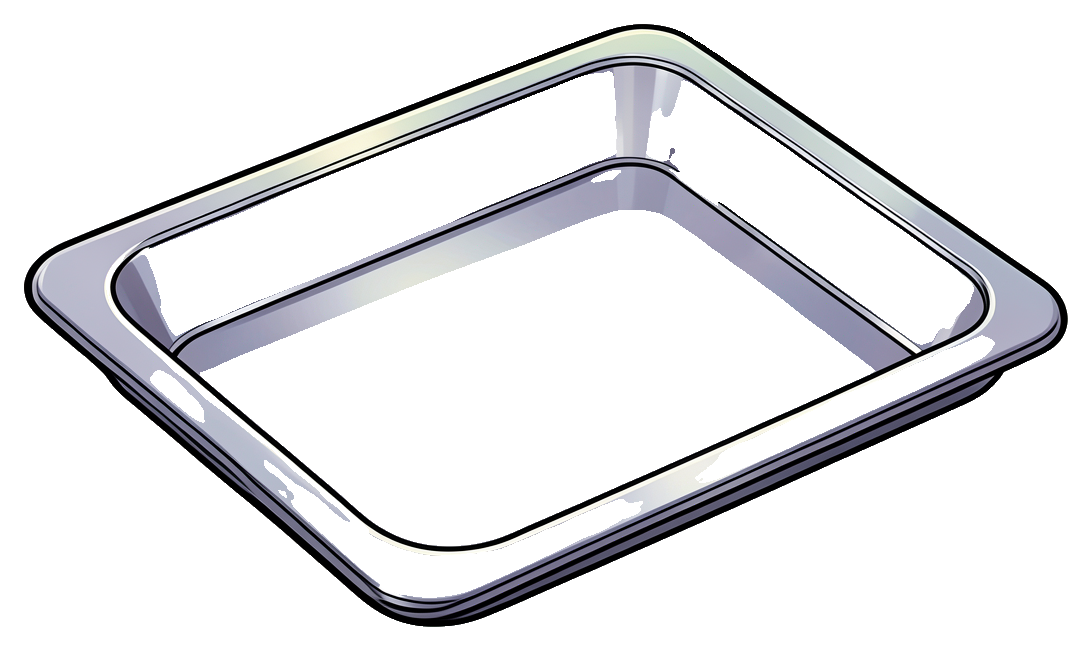
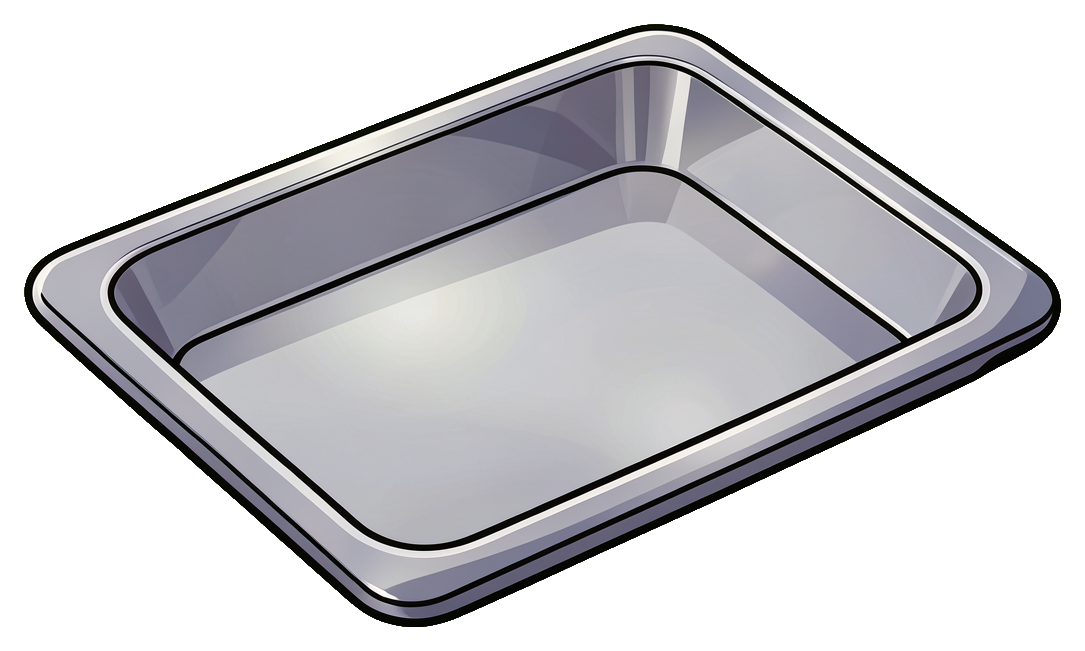
Fix transparency holes in grill/ketchup/tray; commercial grill redesign
- assetgen: grill, ketchup_bottle, prep_tray render on green + chroma-key
  cutout now (rembg on white ate their near-white centers: steel top,
  label band, tray bottom/inner walls)
- grill redesigned as a commercial galley range: symmetric 2x2 diamond
  of square cast-iron grates + control knobs (was random round rings)
- cook2.html: pan slots re-seated on the new grates; food-in-pan pose
  (0.5909 scale, -10/-4.5 offset) applied idempotently in Item.refresh
  so it survives raw->cooking->cooked->burnt sprite recreations
- also in tree: bun/cheese keeper refreshes + plate-stack posing

diff --git a/cook2.html b/cook2.html
@@ -80,6 +80,9 @@ button:active{transform:translateY(2px);box-shadow:0 1px 0 rgba(0,0,0,.15)}
 #story input[type=range]{flex:1}
 #story input[type=number]{width:56px;background:#0e1620;color:#fff;border:1px solid #2f4a68;border-radius:6px;padding:3px 5px}
 #story .kv{font-family:ui-monospace,monospace;font-size:11.5px;color:#8fd3ff;white-space:pre-wrap}
+#story header .hbtns{display:flex;gap:6px}
+#story header button.on{background:#3a86ff;color:#fff}
+#storyRestore{position:fixed;left:calc(10px + env(safe-area-inset-left,0px));bottom:calc(10px + env(safe-area-inset-bottom,0px));z-index:30;background:#1d2436;color:#cfe3ff;border:1px solid #3a4a75;border-radius:10px;padding:6px 12px;font-size:13px;font-weight:600;cursor:pointer}
 /* ---------- debug harness (?debug) ---------- */
 #dbgToggle{position:fixed;right:calc(10px + env(safe-area-inset-right,0px));bottom:calc(10px + env(safe-area-inset-bottom,0px));z-index:30;background:#1d2436;color:#cfe3ff;border:1px solid #3a4a75;border-radius:10px;padding:6px 12px;font-size:13px;font-weight:600;cursor:pointer}
 #dbgPanel{position:fixed;right:10px;bottom:48px;z-index:30;background:#1d2436ee;color:#cfe3ff;border:1px solid #3a4a75;border-radius:14px;padding:12px 14px;font-size:13px;width:270px;display:none}
@@ -124,7 +127,7 @@ body.ed-move #game canvas{cursor:move}body.ed-scale #game canvas{cursor:nwse-res
 </div>
 
 <div id="story" class="hidden">
-  <header><span>📖 Storybook</span><button id="storyClose">✕ close</button></header>
+  <header><span>📖 Storybook</span><span class="hbtns"><button id="labelToggle" class="on" title="Toggle labels">Aa</button><button id="storyHide" title="Hide sidebar">⟨</button></span></header>
   <nav id="storyNav"></nav>
   <div class="body" id="storyBody"></div>
 </div>
@@ -136,7 +139,7 @@ body.ed-move #game canvas{cursor:move}body.ed-scale #game canvas{cursor:nwse-res
     <div class="row"><div class="stat" id="menuLevel">Level 1</div><div class="stat" id="menuCoins">🪙 0</div></div>
     <div class="starsBig" id="menuStars"><span>★</span><span>★</span><span>★</span></div>
     <div class="howto">🍔 Tap the patty tray, then a pan — or drag. Cooked patty → plate with a bun.<br>🥤 Tap the soda machine to pour. 🍟 Tap the fryer.<br>🙂 Drag finished dishes to the customer who ordered them. 🪙 Tap tips to collect.</div>
-    <div class="row"><button class="big" id="playBtn">Play</button><button class="ghost" id="storyBtn">📖 Storybook</button><button class="ghost" id="resetBtn">Reset save</button></div>
+    <div class="row"><button class="big" id="playBtn">Play</button><button class="ghost" id="resetBtn">Reset save</button></div>
   </div>
 </div>
 <div id="end" class="overlay hidden">
@@ -152,6 +155,7 @@ body.ed-move #game canvas{cursor:move}body.ed-scale #game canvas{cursor:nwse-res
   <div class="panel"><h1>Paused</h1><div class="row"><button class="big" id="resumeBtn">Resume</button><button class="ghost" id="quitBtn">Quit to menu</button></div></div>
 </div>
 <div id="toast"></div>
+<button id="storyRestore" class="hidden" title="Show storybook sidebar">📖</button>
 <button id="dbgToggle" class="hidden">⏱ Debug</button>
 <div id="edtool" class="hidden">
   <button data-tool="" data-icon="pointer" title="Pointer (game input, Esc)"><img alt="pointer"></button>
@@ -506,7 +510,8 @@ class Puppet{
 /* ======================================================================
    items, stations, plates, customers (shared by storybook + game)
    ====================================================================== */
-const ITEM_W={patty:88,sausage:120,bun_bottom:96,bun_top:96,bun_whole:100,cheese:80,fries:96,cup:75,mug:70,plate:128,burger:100,hotdog:120};
+const ITEM_W={patty:88,sausage:120,bun_bottom:96,bun_top:96,bun_whole:100,cheese:160,fries:96,cup:75,mug:70,plate:128,burger:100,hotdog:120};
+const PAN_FOOD_S=0.5909,PAN_FOOD_DX=-10,PAN_FOOD_DY=-4.5;   // food-in-pan pose, 52px patty slightly left of pan centre (posed 2026-09-05)
 const DISH={
   burger:{icon:'bun_whole',label:'Burger',base:22},
   hotdog:{icon:'sausage_cooked',label:'Hot dog',base:20},
@@ -520,7 +525,7 @@ function removeI(o){const i=interactives.indexOf(o);if(i>=0)interactives.splice(
 function clearWorld(){
   for(const o of interactives.slice())removeI(o);
   for(const c of scene.children.slice())if(c!==bgSprite&&c!==counterSprite)scene.remove(c);
-  stations.length=0;customers.length=0;piles.length=0;fxList.length=0;tweens.length=0;
+  stations.length=0;customers.length=0;piles.length=0;fxList.length=0;tweens.length=0;labels.length=0;
   document.querySelectorAll('#fx .fl,#fx .flyCoin').forEach(e=>e.remove());
   drag=null;selected=null;
 }
@@ -546,17 +551,21 @@ class Item{
     for(const p of this.parts)removeObj(p);this.parts=[];removeObj(this.spr);
     if(this.kind==='plate'){this.buildPlate();return;}
     this.spr=sprite(this.key(),{w:ITEM_W[this.kind]||90,ax:.5,ay:.5,layer:this.layer});this.spr.userData.editName='Item('+this.kind+':'+this.state+')';this.g.add(this.spr);
+    if(this.station instanceof Grill&&this.slot){const u=this.spr.userData;this.spr.scale.set(u.w*PAN_FOOD_S,u.h*PAN_FOOD_S,1);this.spr.position.set(PAN_FOOD_DX,PAN_FOOD_DY,0);}   // pan pose, idempotent: survives raw->cooking->cooked->burnt recreations
   }
   /** plate stack: this.stack = ['bun_bottom','patty','bun_top'] etc. */
   buildPlate(){
     const st=this.stack||[];
     const plate=sprite('plate',{w:ITEM_W.plate,ax:.5,ay:.5,layer:this.layer});plate.userData.sub=0;plate.userData.editName='Plate.plate';this.g.add(plate);this.spr=plate;
-    let y=8,i=1;
+    // stack layer y in design px (from plate centre). hand-posed 2026-09-05 with the edit tools:
+    // tight stack: bun_bottom @ (0.1, -1), patty @ (-0.4, 27.2), cheese w 100.5 @ (0, 22.5) overhanging with its
+    // melt drip, bun_top @ (-0.3, 49.3) tucked onto the cheese; bun_whole/sausage keep their original values
+    const Y={bun_bottom:-1,bun_whole:8,patty:27.2,sausage:26,cheese:22.5,bun_top:49.3},X={bun_bottom:0.1,patty:-0.4,cheese:0,bun_top:-0.3},W={cheese:100.5};
+    let i=1;
     for(const k of st){
       const key=k==='patty'?'patty_cooked':k==='sausage'?'sausage_cooked':k;
-      const s=sprite(key,{w:ITEM_W[k==='patty'?'patty':k==='sausage'?'sausage':k]||90,layer:this.layer});
-      s.position.y=y;s.userData.sub=i++;s.userData.editName='Plate.stack['+k+']';s.renderOrder=this.layer+i;this.g.add(s);this.parts.push(s);
-      y+= (k==='bun_bottom'?26:k==='bun_whole'?18:k==='patty'?22:k==='cheese'?12:20);
+      const s=sprite(key,{w:W[k]||ITEM_W[k==='patty'?'patty':k==='sausage'?'sausage':k]||90,layer:this.layer});
+      s.position.set(X[k]||0,Y[k]??8,0);s.userData.sub=i++;s.userData.editName='Plate.stack['+k+']';s.renderOrder=this.layer+i;this.g.add(s);this.parts.push(s);
     }
   }
   set(state){this.state=state;this.refresh();}
@@ -605,10 +614,10 @@ class Grill extends Station{
   drop(item,slot){
     if(!this.accepts(item,slot))return false;
     slot.item=item;item.station=this;item.slot=slot;slot.t=0;item.home=null;
-    item.g.position.set(slot.x,slot.y+8,0);item.set('cooking');item.setLayer(L.ITEM);
+    item.g.position.set(slot.x,slot.y+8,0);item.set('cooking');item.setLayer(L.ITEM);   // set() refreshes, which applies the pan pose
     SFX.sizzle();return true;
   }
-  take(item){const s=item.slot;if(s){s.item=null;s.bar.visible=false;}item.station=null;item.slot=null;}
+  take(item){const s=item.slot;if(s){s.item=null;s.bar.visible=false;}item.station=null;item.slot=null;item.g.scale.setScalar(1);}
   update(dt){
     for(const s of this.slots){
       if(!s.item)continue;
@@ -637,11 +646,12 @@ class Tray extends Station{
   constructor(kind,x,y,{count=3,w=150,tray=true}={}){
     super('prep_tray',x,y,w,{ay:.5});
     this.kind=kind;
+    this.spr.userData.editName='Tray('+kind+')';
     if(!tray)this.spr.material.opacity=0;   // invisible but still tappable
     this.decor=[];
     for(let i=0;i<count;i++){
-      const key=kind==='patty'?'patty_raw':kind==='sausage'?'sausage_raw':'bun_whole';
-      const s=sprite(key,{w:(ITEM_W[kind]||90)*.85,layer:L.STATION+1,x:x+(i-(count-1)/2)*26,y:y+12+i*3});s.renderOrder=L.STATION+1+i;scene.add(s);this.decor.push(s);
+      const key=kind==='patty'?'patty_raw':kind==='sausage'?'sausage_raw':kind==='bun'?'bun_whole':'cheese';
+      const s=sprite(key,{w:(ITEM_W[kind]||90)*.85,layer:L.STATION+1,x:x+(i-(count-1)/2)*26,y:y+12+i*3});s.renderOrder=L.STATION+1+i;s.userData.editName='Tray('+kind+').decor['+i+']';scene.add(s);this.decor.push(s);
     }
     this.i.priority=1.2;
   }
@@ -662,13 +672,14 @@ class PlateRack{
     if(item.kind==='bun_bottom')return st.length===0;
     if(item.kind==='patty')return item.state==='cooked'&&st.length===1&&st[0]==='bun_bottom';
     if(item.kind==='sausage')return item.state==='cooked'&&st.length===1&&st[0]==='bun_bottom';
-    if(item.kind==='cheese')return st.includes('patty')&&!st.includes('cheese')&&!st.includes('bun_top');
+    if(item.kind==='cheese')return st.includes('bun_top')&&st.includes('patty')&&!st.includes('cheese');
     return false;
   }
   drop(item,slot){
     if(!this.accepts(item,slot))return false;
     const p=slot.item,st=p.stack;
-    if(item.kind==='sausage'){st[0]='bun_whole';st.push('sausage');}
+    if(item.kind==='cheese'){st.splice(st.indexOf('bun_top'),0,'cheese');}
+    else if(item.kind==='sausage'){st[0]='bun_whole';st.push('sausage');}
     else{st.push(item.kind);if(item.kind==='patty')st.push('bun_top');}
     item.dispose();p.refresh();SFX.place();if(p.dish())SFX.ding();
     return true;
@@ -944,7 +955,7 @@ try{const s=localStorage.getItem(SAVE_KEY);if(s)SAVE=Object.assign(SAVE,JSON.par
 const save=()=>{try{localStorage.setItem(SAVE_KEY,JSON.stringify(SAVE));}catch(e){}};
 const G={
   mode:'menu',level:1,cfg:null,coins:0,score:0,served:0,lost:0,time:0,elapsed:0,queue:[],spawnIdx:0,nextSpawnAt:0,
-  inputEnabled(){return this.mode==='playing'||this.mode==='story'||this.mode==='pose';},
+  inputEnabled(){return this.mode==='playing'||this.mode==='story'||this.mode==='pose'||this.mode==='studio';},
   addCoins(n,x,y,{fly=false}={}){this.coins+=n;this.score+=n;floatText(x,y,'+'+n,'coin');if(fly)flyCoins(x,y,Math.min(8,2+Math.round(n/6)));else bumpHud();updateHUD();},
   onServed:null,
 };
@@ -961,10 +972,11 @@ function buildKitchen(cfg={grillSlots:3}){
   new Decor('ketchup',610,-70,64);
   new Tray('bun',-200,-340,{count:3,w:170,tray:false});
   new PlateRack([[-250,-190],[-95,-190],[60,-190]]);
-  const pans=[[300,-100],[455,-100],[350,-222]].slice(0,cfg.grillSlots);
+  const pans=[[284.3,-120.4],[498.8,-114.6],[386,-167.5]].slice(0,cfg.grillSlots);   // left, right, front grates of the 2x2-diamond range, posed 2026-09-05
   new Grill(380,-340,pans,{cook:4,burn:5});
   new Tray('patty',360,-450,{count:3,w:180});
   new Tray('sausage',590,-450,{count:2,w:170});
+  new Tray('cheese',790,-450,{count:3,w:180});
   new Fryer(660,-265);
   new Trash(-640,-470);
 }
@@ -1015,7 +1027,7 @@ function endLevel(win){
 }
 function showMenu(){
   G.mode='menu';clearWorld();
-  $('end').classList.add('hidden');$('paused').classList.add('hidden');$('hud').classList.add('hidden');$('story').classList.add('hidden');
+  $('end').classList.add('hidden');$('paused').classList.add('hidden');$('hud').classList.add('hidden');$('story').classList.add('hidden');$('storyRestore').classList.add('hidden');
   const sp=$('menuStars').children,best=SAVE.best[SAVE.level]||0;for(let i=0;i<3;i++)sp[i].classList.toggle('on',i<best);
   $('menuLevel').textContent='Level '+SAVE.level;$('menuCoins').textContent='🪙 '+SAVE.coins;$('menu').classList.remove('hidden');
   // decorative: kitchen behind the menu
@@ -1027,7 +1039,8 @@ $('nextBtn').onclick=()=>startLevel(G.level+1);$('retryBtn').onclick=()=>startLe
 $('menuBtn').onclick=()=>{if(G.mode==='playing'){G.mode='paused';$('paused').classList.remove('hidden');}else if(G.mode==='story')showMenu();};
 $('resumeBtn').onclick=()=>{G.mode='playing';$('paused').classList.add('hidden');};$('quitBtn').onclick=showMenu;
 $('muteBtn').onclick=()=>{Audio.muted=!Audio.muted;$('muteBtn').textContent=Audio.muted?'🔇':'🔊';};
-$('storyBtn').onclick=()=>openStory();$('storyClose').onclick=showMenu;
+$('storyHide').onclick=()=>setStorySidebar(true);$('storyRestore').onclick=()=>setStorySidebar(false);
+$('labelToggle').onclick=()=>{setLabelVisibility(!labelVisible);$('labelToggle').classList.toggle('on',labelVisible);};
 
 /* ======================================================================
    storybook: every asset, every state, composites, interactive stations, rig, HUD
@@ -1035,11 +1048,17 @@ $('storyBtn').onclick=()=>openStory();$('storyClose').onclick=showMenu;
 const PAGES=[];
 function page(name,desc,build){PAGES.push({name,desc,build});}
 let storyCleanup=null,storyPage=null,storyTick=null;
+function setStorySidebar(hidden){
+  $('story').classList.toggle('hidden',hidden);
+  $('storyRestore').classList.toggle('hidden',!hidden);
+  $('edtool').classList.toggle('hidden',!hidden);   // edit toolbar ⇄ sidebar: mutually exclusive
+}
 function openStory(pageIdx=0){
   G.mode='story';clearWorld();
-  $('menu').classList.add('hidden');$('story').classList.remove('hidden');$('hud').classList.remove('hidden');
+  $('menu').classList.add('hidden');$('hud').classList.remove('hidden');
   G.cfg={goal:10,patience:20,slots:4};G.served=0;G.coins=0;G.score=0;G.time=90;G.level=1;updateHUD();
-  const nav=$('storyNav');nav.innerHTML='';PAGES.forEach((p,i)=>{const b=document.createElement('button');b.textContent=p.name;b.onclick=()=>showPage(i);nav.appendChild(b);});
+  setStorySidebar(false);
+  const nav=$('storyNav');nav.innerHTML='';PAGES.forEach((p,i)=>{const b=document.createElement('button');b.textContent=p.name;b.onclick=()=>Studio.active?Studio.showPage(i):showPage(i);nav.appendChild(b);});
   showPage(pageIdx);
 }
 function showPage(i){
@@ -1048,9 +1067,11 @@ function showPage(i){
   const p=PAGES[i];storyPage=p;const body=$('storyBody');body.innerHTML=`<h3>${p.name}</h3><p>${p.desc}</p>`;
   p.build(body);
 }
+const labels=[];let labelVisible=true;
+function setLabelVisibility(v){labelVisible=!!v;for(const m of labels)m.visible=labelVisible;}
 function label(x,y,txt,size=20){ // canvas text sprite
   const cv=document.createElement('canvas');const g=cv.getContext('2d');const font=`700 ${size*2}px Fredoka, sans-serif`;g.font=font;const w=Math.ceil(g.measureText(txt).width)+24;cv.width=w;cv.height=size*2+20;g.font=font;g.textBaseline='middle';g.textAlign='center';g.lineWidth=8;g.strokeStyle='rgba(0,0,0,.55)';g.strokeText(txt,w/2,cv.height/2);g.fillStyle='#fff';g.fillText(txt,w/2,cv.height/2);
-  const t=new THREE.CanvasTexture(cv);t.colorSpace=THREE.SRGBColorSpace;const m=new THREE.Mesh(planeGeo(),new THREE.MeshBasicMaterial({map:t,transparent:true,depthTest:false}));m.renderOrder=L.FX+5;m.scale.set(cv.width/2,cv.height/2,1);m.position.set(x,y,0);scene.add(m);return m;
+  const t=new THREE.CanvasTexture(cv);t.colorSpace=THREE.SRGBColorSpace;const m=new THREE.Mesh(planeGeo(),new THREE.MeshBasicMaterial({map:t,transparent:true,depthTest:false}));m.renderOrder=L.FX+5;m.scale.set(cv.width/2,cv.height/2,1);m.position.set(x,y,0);m.userData.key='label';m.userData.editName="Label:'"+txt+"'";m.visible=labelVisible;labels.push(m);scene.add(m);return m;
 }
 function ctl(body,buttons){const d=document.createElement('div');d.className='ctl';for(const [t,fn] of buttons){const b=document.createElement('button');b.textContent=t;b.onclick=()=>{fn(b);SFX.click();};d.appendChild(b);}body.appendChild(d);return d;}
 function slider(body,name,min,max,val,step,fn){const l=document.createElement('label');l.innerHTML=`<span style="width:70px">${name}</span>`;const r=document.createElement('input');r.type='range';r.min=min;r.max=max;r.step=step;r.value=val;r.oninput=()=>fn(parseFloat(r.value));l.appendChild(r);body.appendChild(l);return r;}
@@ -1079,9 +1100,9 @@ page('Composites','Dishes assembled from individual sprites on a plate: bun bott
   const order=['bun_bottom','patty','cheese','bun_top'];let i=0;
   ctl(body,[['Add next ingredient',()=>{if(i<order.length){p.stack.push(order[i++]);p.refresh();SFX.place();}}],['Reset',()=>{p.stack=[];i=0;p.refresh();}]]);
 });
-page('Stations','Interactive: tap the patty tray then a pan (or drag). Patties cook, then burn. Tap buns then a plate; cooked patty onto the bun → burger. Tap soda machine / fryer. Trash anything.',body=>{
+page('Stations','Interactive: tap the patty tray then a pan (or drag). Patties cook, then burn. Tap buns then a plate; cooked patty onto the bun → burger. Tap a finished burger with a cheese slice for a cheeseburger. Tap soda machine / fryer. Trash anything.',body=>{
   buildKitchen({grillSlots:3});
-  label(-470,110,'soda machine',15);label(-90,-40,'plates',15);label(-190,-260,'buns',15);label(400,120,'grill (3 pans)',15);label(370,-330,'raw patties',15);label(600,-330,'sausages',15);label(620,-170,'fryer',15);label(-640,-250,'trash',15);
+  label(-470,160,'soda machine',15);label(-90,-165,'plates',15);label(-190,-320,'buns',15);label(380,-15,'grill (3 pans)',15);label(360,-420,'raw patties',15);label(590,-425,'sausages',15);label(790,-425,'cheese',15);label(660,-185,'fryer',15);label(-560,-245,'trash',15);
   ctl(body,[['Cook speed ×3',b=>{for(const s of stations)if(s instanceof Grill){s.cookT=s.cookT>2?1.3:4;s.burnT=s.burnT>2?1.7:5;b.classList.toggle('on');}}],['Spawn cooked patty',()=>{const it=new Item('patty','cooked',0,-400);}],['Spawn burnt patty',()=>{new Item('patty','burnt',80,-400);}]]);
 });
 page('Customers rig','Paper-puppet customers: ear/eye/brow mirrored across the vertical axis, plus nose, mouth, head and body. Pose tweens FRONT ↔ SIDE for a parallax turn; expressions swap mouth sprites and offset brows; eyes blink and gaze.',body=>{
@@ -1123,7 +1144,7 @@ page('Scene','The background plate is one image edited from the reference screen
   ctl(body,[['Toggle counter overlay',()=>counterSprite.visible=!counterSprite.visible]]);
 });
 
-window.__cook={toDesign:(cx,cy)=>clientToDesign(cx,cy),hoverAt(x,y){const c=designToClient(x,y);renderer.domElement.dispatchEvent(new PointerEvent('pointermove',{clientX:c.x,clientY:c.y,pointerId:1,bubbles:true}));},hit(x,y){const h=hitTest(x,y);return h&&(h.owner.constructor.name+(h.owner.kind?':'+h.owner.kind:''));},tapAt(x,y){const c=designToClient(x,y);const cv=renderer.domElement;const ev=t=>new PointerEvent(t,{clientX:c.x,clientY:c.y,pointerId:1,bubbles:true,cancelable:true});cv.dispatchEvent(ev('pointerdown'));cv.dispatchEvent(ev('pointerup'));},
+window.__cook={toDesign:(cx,cy)=>clientToDesign(cx,cy),toClient:(x,y)=>designToClient(x,y),hoverAt(x,y){const c=designToClient(x,y);renderer.domElement.dispatchEvent(new PointerEvent('pointermove',{clientX:c.x,clientY:c.y,pointerId:1,bubbles:true}));},hit(x,y){const h=hitTest(x,y);return h&&(h.owner.constructor.name+(h.owner.kind?':'+h.owner.kind:''));},tapAt(x,y){const c=designToClient(x,y);const cv=renderer.domElement;const ev=t=>new PointerEvent(t,{clientX:c.x,clientY:c.y,pointerId:1,bubbles:true,cancelable:true});cv.dispatchEvent(ev('pointerdown'));cv.dispatchEvent(ev('pointerup'));},
   dragTo(x0,y0,x1,y1){const a=designToClient(x0,y0),b=designToClient(x1,y1);const cv=renderer.domElement;const ev=(t,p)=>new PointerEvent(t,{clientX:p.x,clientY:p.y,pointerId:1,bubbles:true,cancelable:true});cv.dispatchEvent(ev('pointerdown',a));for(let i=1;i<=6;i++)cv.dispatchEvent(ev('pointermove',{x:lerp(a.x,b.x,i/6),y:lerp(a.y,b.y,i/6)}));cv.dispatchEvent(ev('pointerup',b));},
   state(){return {mode:G.mode,sel:selected&&selected.kind+':'+selected.state,items:scene.children.length,customers:customers.map(c=>c.state+':'+c.dish+':'+c.patience.toFixed(2)),stations:stations.map(s=>s.constructor.name+(s.slots?':'+s.slots.map(x=>x.item?x.item.kind+'/'+x.item.state:(x.item===null&&x.pan?'-':'plate['+(x.item&&x.item.stack||[]).join('+')+']')).join(','):'')),coins:G.coins,served:G.served};},
   G,scene,customers,stations};
@@ -1143,7 +1164,7 @@ const poseTicks=[];   // objects with update(dt) that live only in the poser stu
 function tick(dt){
   updateTweens(dt);
   if(G.mode==='playing')updateGame(dt);
-  else if(G.mode==='story'){updateWorld(dt);storyTick&&storyTick(dt);}
+  else if(G.mode==='story'||G.mode==='studio'){updateWorld(dt);storyTick&&storyTick(dt);}
   else if(G.mode==='menu')updateWorld(dt);
   else if(G.mode==='pose'){updateWorld(dt);for(const o of poseTicks)o.update(dt);}
 }
@@ -1161,14 +1182,14 @@ function backdropTexture(kind,opts={}){
   return t;
 }
 const Pose={
-  active:false,obj:null,spec:null,plane:null,saved:null,zoom:1,
+  active:false,sceneMode:false,obj:null,spec:null,plane:null,saved:null,zoom:1,
   /** spec: 'puppet:man' | 'customer:woman:burger' | 'item:patty:cooked' | 'plate:bun_bottom+patty+bun_top' | 'station:grill' | 'key:hud_star_on' | any asset key */
   enter(spec,{bg='white',zoom=1,colors,cells}={}){
     if(this.active)this.exit();
     this.saved={mode:G.mode,hud:$('hud').className,story:$('story').className,menu:$('menu').className,children:scene.children.slice(),vis:scene.children.map(c=>c.visible)};
     for(const c of scene.children)c.visible=false;
     $('hud').classList.add('hidden');$('story').classList.add('hidden');$('menu').classList.add('hidden');$('end').classList.add('hidden');
-    G.mode='pose';this.active=true;this.spec=spec;poseTicks.length=0;
+    G.mode='pose';this.active=true;this.sceneMode=false;this.spec=spec;poseTicks.length=0;
     this.plane=new THREE.Mesh(planeGeo(),new THREE.MeshBasicMaterial({map:backdropTexture(bg,{colors,cells}),depthTest:false}));this.plane.renderOrder=-10;scene.add(this.plane);
     const [type,a,b]=spec.split(':');
     let o;
@@ -1193,15 +1214,29 @@ const Pose={
     this.obj=o;this.zoom=zoom;this.pan={x:0,y:0};this.frame();render();
     return this.info();
   },
-  frame(){ // center on the object's bounds, scale the view so it fills ~70% of the height
-    if(!this.obj||!this.obj.root)return;scene.updateMatrixWorld();
-    const b=new THREE.Box3().setFromObject(this.obj.root);const c=b.getCenter(new THREE.Vector3()),sz=b.getSize(new THREE.Vector3());
+  frame(){ // center on the object's bounds (scene mode: on all visible content), scale the view so it fills ~70% of the height
+    scene.updateMatrixWorld();
+    let b;
+    if(this.sceneMode&&!this.obj){ // studio: fit over every visible named sprite (stations, items, labels)
+      b=new THREE.Box3();let any=false;
+      scene.traverse(o=>{
+        if(!o.isMesh||!o.userData.key||o===bgSprite||o===counterSprite||o===this.plane)return;
+        let q=o,vis=true;while(q){if(!q.visible){vis=false;break;}q=q.parent;}if(!vis)return;
+        b.expandByObject(o);any=true;
+      });
+      if(!any)return;
+    }
+    else if(this.obj&&this.obj.root){b=new THREE.Box3().setFromObject(this.obj.root);}
+    else return;
+    const c=b.getCenter(new THREE.Vector3()),sz=b.getSize(new THREE.Vector3());
     const fit=Math.max(sz.x/(view.fw*.7),sz.y/(view.fh*.7),1e-3)/this.zoom;
     const px=(this.pan&&this.pan.x)||0,py=(this.pan&&this.pan.y)||0;
     camera.left=-view.fw/2*fit;camera.right=view.fw/2*fit;camera.top=view.fh/2*fit;camera.bottom=-view.fh/2*fit;camera.position.x=c.x+px;camera.position.y=c.y+py;camera.updateProjectionMatrix();
-    this.plane.position.set(c.x+px,c.y+py,0);
-    const fw=camera.right-camera.left,fh=camera.top-camera.bottom;this.plane.scale.set(fw,fh,1);
-    const map=this.plane.material.map;if(map.userData.tilePx){map.repeat.set(fw/map.userData.tilePx,fh/map.userData.tilePx);map.needsUpdate=true;}
+    if(this.plane){
+      this.plane.position.set(c.x+px,c.y+py,0);
+      const fw=camera.right-camera.left,fh=camera.top-camera.bottom;this.plane.scale.set(fw,fh,1);
+      const map=this.plane.material.map;if(map.userData.tilePx){map.repeat.set(fw/map.userData.tilePx,fh/map.userData.tilePx);map.needsUpdate=true;}
+    }
   },
   setZoom(z){this.zoom=z;this.frame();render();},
   center(x,y){ // pan the studio camera (design units, relative to the object's bounds center)
@@ -1214,6 +1249,7 @@ const Pose={
     for(const n of ['headF','headS','bodyF','bodyS']){const m=p[n];const r=worldRect(m);out[n]={key:m.userData.key,vis:m.visible,alpha:+m.material.opacity.toFixed(2),rect:[+r.x0.toFixed(0),+r.y0.toFixed(0),+r.x1.toFixed(0),+r.y1.toFixed(0)],order:m.renderOrder};}return out;},
   exit(){
     if(!this.active)return;
+    if(this.sceneMode){Studio.exit();return;}   // studio drives its own teardown
     removeObj(this.plane);this.plane=null;
     if(this.obj&&!(this.spec||'').startsWith('station')){if(this.obj.side)this.obj.side.dispose();if(this.obj.dispose)this.obj.dispose();if(this.obj.root)removeObj(this.obj.root);}
     if(this._builtKitchen){clearWorld();this._builtKitchen=false;}
@@ -1230,7 +1266,8 @@ function applyQueryPose(){
   const q=new URLSearchParams(location.search);if(!q.has('pose'))return;
   const opts={bg:q.get('bg')||'white',zoom:parseFloat(q.get('zoom'))||1};
   if(q.get('colors'))opts.colors=q.get('colors').split(',');if(q.get('cells'))opts.cells=parseInt(q.get('cells'));
-  Pose.enter(q.get('pose'),opts);
+  const spec=(q.get('pose')||'').replace(/ /g,'+');   // URLSearchParams decodes '+' as space; stack specs use '+'
+  Pose.enter(spec,opts);
   if(q.get('pan')){const [x,y]=q.get('pan').split(',').map(Number);Pose.center(x||0,y||0);}
   const p=Pose.obj&&(Pose.obj.parts?Pose.obj:Pose.obj.p);   // puppet, or a customer's puppet
   const both=fn=>{fn(p);if(Pose.obj&&Pose.obj.side)fn(Pose.obj.side);};
@@ -1245,6 +1282,56 @@ function applyQueryPose(){
   $('dbgPanel').classList.toggle('open',q.get('panel')==='1');
   if(q.get('tool'))Editor.setTool(q.get('tool'));
 }
+/* ---------- studio: storybook sidebar + pose camera over a whole page (scene mode) ---------- */
+const Studio={
+  active:false,pageIdx:0,bg:'grid',plane:null,
+  enter(pageIdx=2,{bg='grid',zoom=1}={}){
+    if(this.active)this.exit();
+    this.active=true;this.bg=bg;
+    G.mode='studio';
+    G.cfg={goal:10,patience:20,slots:4};G.served=0;G.coins=0;G.score=0;G.time=90;G.level=1;updateHUD();
+    $('menu').classList.add('hidden');$('end').classList.add('hidden');$('paused').classList.add('hidden');$('hud').classList.add('hidden');
+    setStorySidebar(false);   // sidebar open ⇒ edtool hidden (mutually exclusive)
+    const nav=$('storyNav');nav.innerHTML='';PAGES.forEach((p,i)=>{const b=document.createElement('button');b.textContent=p.name;b.onclick=()=>Studio.showPage(i);nav.appendChild(b);});
+    Pose.sceneMode=true;Pose.active=true;Pose.obj=null;Pose.spec=null;Pose.zoom=zoom||1;Pose.pan={x:0,y:0};
+    this.showPage(pageIdx,{bg});
+  },
+  showPage(i,{bg=null,zoom=null}={}){
+    if(!this.active)return;
+    i=clamp(i|0,0,PAGES.length-1);this.pageIdx=i;
+    [...$('storyNav').children].forEach((b,j)=>b.classList.toggle('on',j===i));
+    const p=PAGES[i];const body=$('storyBody');body.innerHTML=`<h3>${p.name}</h3><p>${p.desc}</p>`;
+    storyTick=null;
+    clearWorld();                    // nukes the backdrop plane (it's a scene child) — re-add below
+    this.setBg(bg||this.bg);
+    p.build(body);
+    if(zoom!=null)Pose.zoom=zoom;
+    Pose.frame();render();
+  },
+  setBg(bg){
+    this.bg=bg;
+    if(this.plane){scene.remove(this.plane);this.plane=null;Pose.plane=null;}
+    const on=(bg==='scene');
+    if(bgSprite)bgSprite.visible=on;
+    if(counterSprite)counterSprite.visible=on;
+    if(!on){
+      this.plane=new THREE.Mesh(planeGeo(),new THREE.MeshBasicMaterial({map:backdropTexture(bg),depthTest:false}));
+      this.plane.renderOrder=-10;scene.add(this.plane);
+      Pose.plane=this.plane;
+    }
+  },
+  exit(){
+    if(!this.active)return;
+    this.active=false;
+    Pose.sceneMode=false;Pose.active=false;
+    if(this.plane){scene.remove(this.plane);this.plane=null;Pose.plane=null;}
+    if(bgSprite)bgSprite.visible=true;
+    if(counterSprite)counterSprite.visible=true;
+    $('edtool').classList.add('hidden');
+    showMenu();                      // hides #story, builds the menu kitchen, mode='menu'
+  },
+};
+window.__cook.studio=Studio;
 /* ---------- edit tools: move / scale / rotate any sprite (debug) ---------- */
 const Editor={
   tool:'',hover:null,sel:null,drag:null,edits:[],
@@ -1318,7 +1405,9 @@ const Editor={
     const after=this.values(d.o);const name=this.name(d.o);
     const entry={name,tool:this.tool,before:d.before,after,t:+Time.T.toFixed(2)};
     if(JSON.stringify(d.before)!==JSON.stringify(after)){this.edits.push(entry);
-      const hint=after.kind==='headGroup'?'\n  paste into CHAR: headY:'+after.headY+(after.dx?' (sideHead/dx '+after.dx+')':'')+(after.scale!==1?' headW:'+Math.round(after.headW*after.scale):''):after.off?'\n  paste into POSE/editOff: '+JSON.stringify(after.off):'';
+      let hint=after.kind==='headGroup'?'\n  paste into CHAR: headY:'+after.headY+(after.dx?' (sideHead/dx '+after.dx+')':'')+(after.scale!==1?' headW:'+Math.round(after.headW*after.scale):''):after.off?'\n  paste into POSE/editOff: '+JSON.stringify(after.off):'';
+      if(name.startsWith('Label:'))hint+='\n  paste into page("Stations") label(x,y,...)';
+      else if(name.startsWith('Tray(')||['Grill','SodaMachine','Fryer','Trash','PlateRack'].includes(name))hint+='\n  paste into buildKitchen()';
       console.debug('[edit]',name,this.tool,'\n  before',JSON.stringify(d.before),'\n  after ',JSON.stringify(after),hint);}
     this.box(d.o,true);
   },
@@ -1369,9 +1458,10 @@ __cook.pose — studio
   pose.setBg(bg,opts)  pose.setZoom(z)  pose.center(dx,dy)  pose.frame()  pose.exit()   (mouse wheel = zoom at cursor, middle-drag = pan)
   pose.show({ears:false,head:false,body:false})  hide/show puppet layers
 __cook.tapAt(x,y) / dragTo(x0,y0,x1,y1)  design-space input (0,0 = screen center, y up)
-URL: cook2.html?pose=station:sodamachine:full&bg=grid&zoom=1.6&pan=0,0&freeze=1   (also posev, expr, gaze, walk, show, t, step, panel, nocache)
+URL: cook2.html?pose=station:sodamachine:full&bg=grid&zoom=1.6&pan=0,0&freeze=1   (also posev, expr, gaze, walk, show, t, step, panel, nocache; '+' in plate stacks is fine: ?pose=plate:bun_bottom+patty+bun_top)
+     cook2.html?studio=1&page=2&bg=grid&zoom=1   (storybook sidebar + pose camera over the whole page; bg: grid|white|gradient|scene; sidebar 'Aa' button toggles labels)
      station states: sodamachine none|empty|filling|full · grill none|raw|cooking|cooked|burnt|sausage_cooked · fryer none|cooking|ready`;
-function dbgInfoUpdate(){const i=Time.info();$('dbgInfo').textContent=`frozen: ${i.frozen} · T=${i.T.toFixed(2)}s · frames=${i.frames} · mode=${i.mode}`+(Pose.active?` · pose=${Pose.spec}`:'');$('dbgFreeze').textContent=i.frozen?'▶ Resume':'⏸ Freeze';}
+function dbgInfoUpdate(){const i=Time.info();const extra=Pose.active?(Pose.sceneMode?` · studio=${PAGES[Studio.pageIdx]?PAGES[Studio.pageIdx].name:''}`:` · pose=${Pose.spec}`):'';$('dbgInfo').textContent=`frozen: ${i.frozen} · T=${i.T.toFixed(2)}s · frames=${i.frames} · mode=${i.mode}`+extra;$('dbgFreeze').textContent=i.frozen?'▶ Resume':'⏸ Freeze';}
 $('dbgToggle').onclick=()=>$('dbgPanel').classList.toggle('open');
 $('dbgFreeze').onclick=()=>Time.toggle();
 $('dbgStep1').onclick=()=>Time.step(1);
@@ -1398,7 +1488,13 @@ window.__cook.pose=Pose;window.__cook.help=()=>DBG_HELP;
   if(location.hash.startsWith('#story')){const n=parseInt(location.hash.slice(6))||0;openStory(n);}
   Time.last=performance.now();dbgInfoUpdate();
   frame();
-  applyQueryPose();
+  const q0=new URLSearchParams(location.search);
+  if(q0.has('studio')){
+    Studio.enter(parseInt(q0.get('page'))||2,{bg:q0.get('bg')||'grid',zoom:parseFloat(q0.get('zoom'))||1});
+    if(q0.get('panel')==='1')$('dbgPanel').classList.add('open');
+    if(q0.get('tool'))Editor.setTool(q0.get('tool'));
+  }
+  else applyQueryPose();
 })();
 </script>
 </body>
